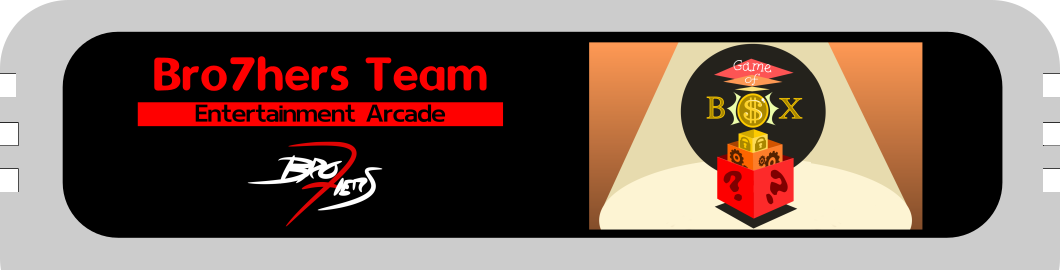
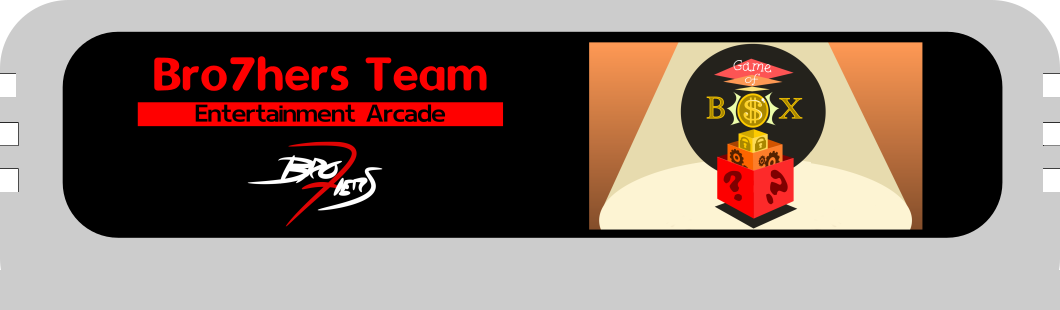
increased cartridges height

diff --git a/css/main.css b/css/main.css
@@ -249,6 +249,7 @@ footer img:hover{
 
 #gameCartridge img {
     position: relative;
+    top:20px;
     width:480px;
     animation-name: insert;
     animation-duration: 4s;
@@ -257,7 +258,7 @@ footer img:hover{
 
 #arcadeNavbar img {
     margin-top:40px;
-    width : 150px;
+    width : 130px;
     animation-name: blink;
     animation-duration: 2s;
     animation-iteration-count: infinite;
@@ -286,5 +287,5 @@ footer img:hover{
 @keyframes insert {
     0% {top: -40px}
     60% {top:-40px}
-    100% {top:0}
+    100% {top:20px}
 }
